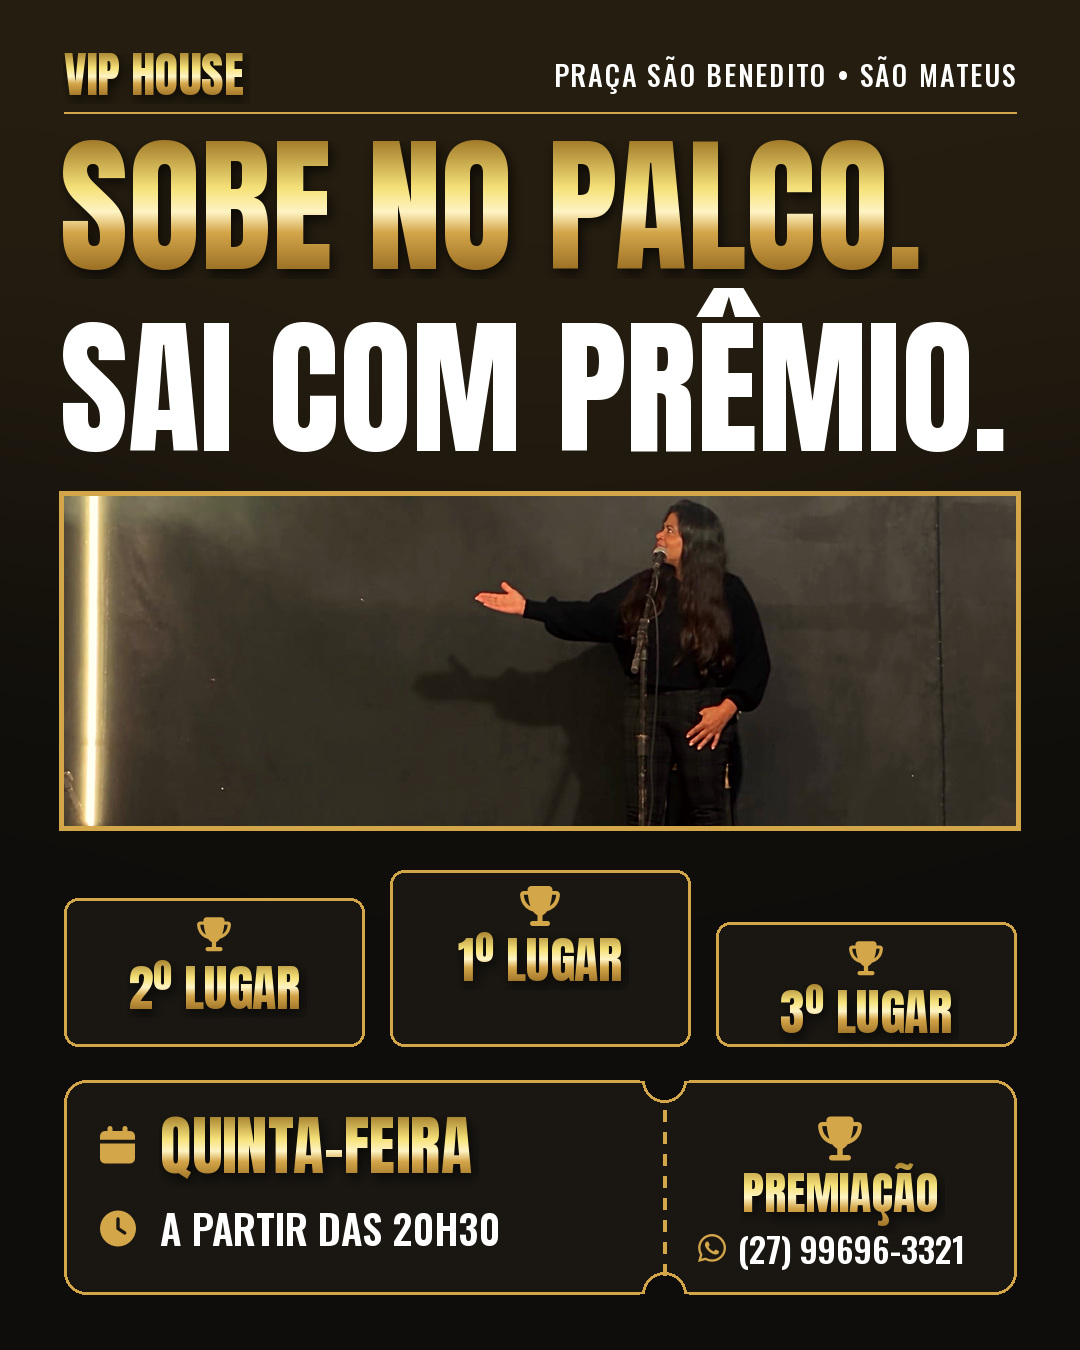
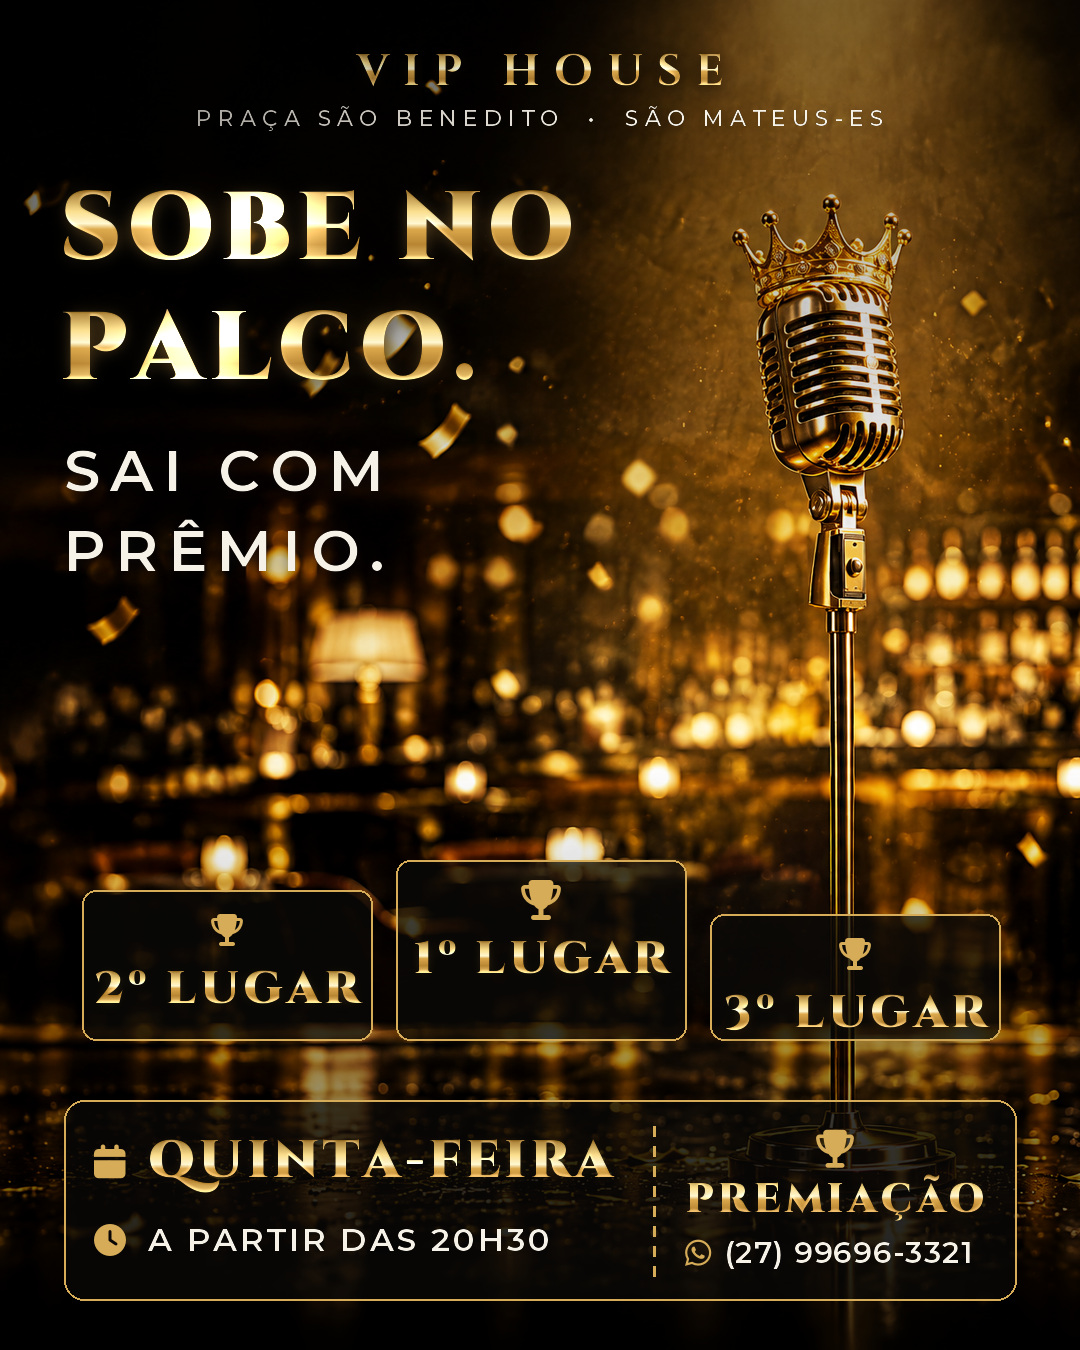
Redo the karaoke posts on the crowned gold microphone art
Five 4:5 posts on the 'o palco é seu' art (two new close-up and VIP-rope
variations made with Higgsfield), gold classic titles, italic taglines
and a translucent VIP ticket with the real info. Titles kept clear of
the microphone, punchline grouped by proximity, checked at full size and
in the 3:4 profile-grid crop.

Claude-Session: https://claude.ai/code/session_01H1sCtr9HCz1dyib54J37Yc

diff --git a/media/vip-house/build/posts-karaoke/posts_palco.py b/media/vip-house/build/posts-karaoke/posts_palco.py
@@ -1,0 +1,202 @@
+"""VIP House karaoke posts in the 'o palco é seu' direction: crowned gold microphone art,
+gold classic titles, italic taglines and a translucent VIP ticket with the real info."""
+import sys
+import numpy as np
+from PIL import Image, ImageDraw, ImageFont, ImageFilter
+sys.path.insert(0, '/tmp/claude-0/-home-user-a/8f0652ee-1482-53b0-83c8-c0d027028c46/scratchpad')
+import titles as T
+from titles import make_elem as E, blit
+
+S = T.S
+ART = '/home/user/a/media/raw/vip-house/palco'
+OUT = f'{S}/posts_palco'
+W, H, M = 1080, 1350, 64
+T.W, T.H = W, H
+GOLD = (214, 172, 88)
+FA = f'{S}/fonts2/fa-solid-900.ttf'
+FAB = f'{S}/fonts2/fa-brands-400.ttf'
+PHONE = '(27) 99696-3321'
+
+
+def cover(path, focus=(0.5, 0.5), zoom=1.0):
+    im = Image.open(path).convert('RGB')
+    sc = max(W / im.width, H / im.height) * zoom
+    im = im.resize((int(im.width * sc + 0.5), int(im.height * sc + 0.5)), Image.LANCZOS)
+    x0 = int(min(max(im.width * focus[0] - W / 2, 0), im.width - W))
+    y0 = int(min(max(im.height * focus[1] - H / 2, 0), im.height - H))
+    return im.crop((x0, y0, x0 + W, y0 + H))
+
+
+def shade(im, top_to=520, top_a=0.55, bot_from=880, bot_a=0.75):
+    f = np.asarray(im, np.float32) / 255
+    y = np.arange(H, dtype=np.float32)[:, None, None]
+    f *= 1 - np.clip((top_to - y) / top_to, 0, 1) ** 1.3 * top_a
+    f *= 1 - np.clip((y - bot_from) / (H - bot_from), 0, 1) ** 1.2 * bot_a
+    return f
+
+
+def icon(d, xy, cp, size, brand=False, anchor='mm'):
+    d.text(xy, chr(cp), font=ImageFont.truetype(FAB if brand else FA, size), fill=GOLD, anchor=anchor)
+
+
+def ticket_shapes(im, y, h=200):
+    """Translucent dark card with a thin gold line and a perforated stub."""
+    x0, x1 = M, W - M
+    card = Image.new('L', (W, H), 0)
+    ImageDraw.Draw(card).rounded_rectangle((x0, y, x1, y + h), radius=20, fill=170)
+    im.paste((10, 9, 7), (0, 0), card)
+    d = ImageDraw.Draw(im)
+    d.rounded_rectangle((x0, y, x1, y + h), radius=20, outline=GOLD, width=2)
+    sx = x0 + 590
+    for yy in range(y + 26, y + h - 20, 20):
+        d.line((sx, yy, sx, yy + 10), fill=GOLD, width=3)
+    icon(d, (x0 + 46, y + 62), 0xf133, 36)       # calendar
+    icon(d, (x0 + 46, y + 140), 0xf017, 32)      # clock
+    icon(d, ((sx + x1) / 2, y + 48), 0xf091, 38)  # trophy
+    icon(d, (sx + 44, y + 152), 0xf232, 30, brand=True)  # whatsapp
+    return sx
+
+
+def ticket_text(f, y, sx, line1='QUINTA-FEIRA', h=200):
+    x0, x1 = M, W - M
+    items = [(E(line1, 'cinzel9', 52, 4, 'gold', glow=0.35, shadow=0.4), 'l', x0 + 84, y + 62),
+             (E('A PARTIR DAS 20H30', 'mont6', 32, 3, 'white', glow=0.0, shadow=0.3), 'l', x0 + 84, y + 140),
+             (E('PREMIAÇÃO', 'cinzel9', 40, 4, 'gold', glow=0.35, shadow=0.4), 'm', (sx + x1) / 2, y + 100),
+             (E(PHONE, 'mont6', 30, 1, 'white', glow=0.0, shadow=0.3), 'l', sx + 70, y + 152)]
+    for e, al, x, yy in items:
+        cx = x + (e['w'] - 120) / 2 if al == 'l' else x  # elems are centred; 60px pad each side
+        blit(f, e, cx, yy, 1.0)
+
+
+def header(f):
+    blit(f, E('VIP HOUSE', 'cinzel7', 44, 14, 'gold', glow=0.3), W / 2, 72)
+    blit(f, E('PRAÇA SÃO BENEDITO  •  SÃO MATEUS-ES', 'mont5', 22, 6, 'white', glow=0.0, shadow=0.3), W / 2, 118)
+
+
+def build(bg, titles_, line1='QUINTA-FEIRA', extra=None, shade_kw=None):
+    im = Image.fromarray((shade(bg, **(shade_kw or {})) * 255).astype(np.uint8))
+    ty = 1100
+    sx = ticket_shapes(im, ty)
+    if extra:
+        extra(im)
+    f = np.asarray(im, np.float32) / 255
+    header(f)
+    for e, x, y in titles_:
+        blit(f, e, x, y, 1.0, 1.0, shine=0.42)
+    ticket_text(f, ty, sx, line1)
+    return Image.fromarray((np.clip(f, 0, 1) * 255 + 0.5).astype(np.uint8))
+
+
+def save(im, name):
+    im.save(f'{OUT}/{name}.jpg', quality=94, subsampling=0)
+    print('saved', name)
+
+
+C = W / 2
+gold = lambda s, size, tr=8, g=0.6: E(s, 'cinzel9', size, tr, 'gold', glow=g)
+white = lambda s, size, tr=8: E(s, 'mont6', size, tr, 'white', glow=0.12)
+ital = lambda s, size: E(s, 'play_i', size, 1, 'white', glow=0.15)
+
+
+def fitE(maker, s, size, max_w, *a):
+    """Largest element (from `size` down) whose text fits max_w."""
+    while size > 20:
+        e = maker(s, size, *a)
+        if e['w'] - 120 <= max_w:
+            return e
+        size -= 2
+    return maker(s, 20, *a)
+
+
+def at_left(f, e, x, y, **k):
+    blit(f, e, x + (e['w'] - 120) / 2, y, 1.0, 1.0, **k)
+
+
+def finish(im_or_f):
+    f = im_or_f if isinstance(im_or_f, np.ndarray) else np.asarray(im_or_f, np.float32) / 255
+    return Image.fromarray((np.clip(f, 0, 1) * 255 + 0.5).astype(np.uint8))
+
+
+def side_shade(im, x_from, a=0.62):
+    f = np.asarray(im, np.float32) / 255
+    x = np.arange(W, dtype=np.float32)[None, :, None]
+    f *= 1 - np.clip((x - x_from) / (W - x_from), 0, 1) ** 0.9 * a
+    return Image.fromarray((f * 255).astype(np.uint8))
+
+
+# 1. toda quinta, o palco é seu: titles above the crown
+save(build(cover(f'{ART}/arte-2x3.png', (0.5, 0.0)), [
+    (white('TODA QUINTA,', 40, 20), C, 182),
+    (fitE(gold, 'O PALCO É SEU', 110, W - 2 * M, 8), C, 282),
+    (ital('karaokê com premiação para quem mandar bem', 40), C, 1032),
+], shade_kw=dict(top_to=420, top_a=0.5)), 'post1-toda-quinta-o-palco-e-seu')
+
+def podium(im):
+    d = ImageDraw.Draw(im)
+    pw, gap, base = 290, 24, 1040
+    for place, x, h in [(2, M + 18, 150), (1, M + 18 + pw + gap, 180), (3, M + 18 + 2 * (pw + gap), 126)]:
+        mask = Image.new('L', (W, H), 0)
+        ImageDraw.Draw(mask).rounded_rectangle((x, base - h, x + pw, base), radius=14, fill=190)
+        im.paste((10, 9, 7), (0, 0), mask)
+        d.rounded_rectangle((x, base - h, x + pw, base), radius=14, outline=GOLD, width=2)
+        icon(d, (x + pw / 2, base - h + 40), 0xf091, 40 if place == 1 else 32)
+        podium.labels.append((x + pw / 2, base - h + 100, place))
+
+
+# 2. sobe no palco, sai com prêmio: mic on the right third, titles in a left column
+podium.labels = []
+bg2 = cover(f'{ART}/arte-16x9.png', (0.60, 0.42))
+im2 = build(bg2, [], extra=podium, shade_kw=dict(top_to=640, top_a=0.45, bot_from=760, bot_a=0.8))
+f2 = np.asarray(im2, np.float32) / 255
+x = np.arange(W, dtype=np.float32)[None, :, None]
+f2 *= 1 - np.clip((620 - x) / 620, 0, 1) * np.clip((780 - np.arange(H, dtype=np.float32)[:, None, None]) / 780, 0, 1) * 0.55
+T.W, T.H = W, H
+at_left(f2, gold('SOBE NO', 96, 6), M - 4, 230, shine=0.42)
+at_left(f2, gold('PALCO.', 96, 6), M - 4, 350, shine=0.42)
+at_left(f2, white('SAI COM', 58, 10), M, 470)
+at_left(f2, white('PRÊMIO.', 58, 10), M, 550)
+for px, py, place in podium.labels:
+    blit(f2, gold(f'{place}º LUGAR', 46, 4, 0.4), px, py)
+save(finish(f2), 'post2-sobe-no-palco-sai-com-premio')
+
+# 3. qual música: crowned mic close-up on the left, text column on the right
+CX0 = 630
+
+
+def bubble(im):
+    d = ImageDraw.Draw(im)
+    x0, y0, x1, y1 = CX0 - 20, 740, W - M, 1036
+    mask = Image.new('L', (W, H), 0)
+    ImageDraw.Draw(mask).rounded_rectangle((x0, y0, x1, y1), radius=20, fill=205)
+    im.paste((10, 9, 7), (0, 0), mask)
+    d.rounded_rectangle((x0, y0, x1, y1), radius=20, outline=GOLD, width=2)
+    icon(d, (x0 + 40, y0 + 52), 0xf075, 34)
+
+
+bg3 = side_shade(cover(f'{ART}/arte-close-4x5.png', (0.68, 0.5), zoom=1.15), 560, 0.7)
+im3 = build(bg3, [], extra=bubble, shade_kw=dict(top_to=300, top_a=0.4, bot_from=1000, bot_a=0.7))
+f3 = np.asarray(im3, np.float32) / 255
+T.W, T.H = W, H
+colw = W - M - CX0
+y = 250
+for line, mk, sz, step in [('QUAL', gold, 96, 108), ('MÚSICA', gold, 96, 112), ('VOCÊ VAI', white, 56, 74), ('CANTAR?', white, 56, 0)]:
+    at_left(f3, fitE(mk, line, sz, colw, 6), CX0, y, shine=0.42)
+    y += step
+at_left(f3, fitE(lambda t, z: E(t, 'cinzel9', z, 3, 'gold', glow=0.35), 'COMENTA', 40, colw - 70), CX0 + 46, 792)
+for i, line in enumerate(['a música que você', 'vai cantar. A mais', 'pedida abre a noite!']):
+    at_left(f3, fitE(lambda t, z: E(t, 'play_i', z, 0, 'white', glow=0.1), line, 38, colw - 20), CX0, 862 + i * 52)
+save(finish(f3), 'post3-qual-musica-voce-vai-cantar')
+
+# 4. humor with the VIP rope
+save(build(cover(f'{ART}/arte-cordao-vip-4x5.png', (0.5, 0.5)), [
+    (fitE(ital, 'No banho, todo mundo é cantor.', 66, W - 2 * M), C, 220),
+    (white('NA QUINTA,', 40, 18), C, 930),
+    (fitE(gold, 'TODO MUNDO É VIP', 96, W - 2 * M, 6), C, 1022),
+], shade_kw=dict(top_to=380, top_a=0.55, bot_from=760, bot_a=0.85)), 'post4-na-quinta-todo-mundo-e-vip')
+
+# 5. é hoje
+save(build(cover(f'{ART}/arte-9x16.png', (0.5, 0.0)), [
+    (fitE(gold, 'É HOJE', 200, W - 2 * M, 12), C, 280),
+    (white('KARAOKÊ NA VIP HOUSE', 40, 12), C, 400),
+    (ital('Chegue cedo e garanta sua mesa', 46), C, 1030),
+], line1='HOJE', shade_kw=dict(top_to=480, top_a=0.5)), 'post5-e-hoje')

diff --git a/media/vip-house/posts-karaoke/legendas.md b/media/vip-house/posts-karaoke/legendas.md
@@ -1,10 +1,10 @@
 # Posts do karaokê de quinta: @viphousesm
 
-Cinco posts de feed (4:5, 1080x1350), só imagem, em preto e dourado (estilo da casa). Fotos reais do karaokê da casa, sem imagem de IA.
+Cinco posts de feed (4:5, 1080x1350), só imagem, na linha do microfone dourado com coroa ("o palco é seu"), em preto e dourado.
 Antes de postar, confira o WhatsApp de inscrição (27) 99696-3321, que veio do post de agosto.
 
-## Seg, 18h: post1-quinta-e-dia-de-soltar-a-voz.jpg
-🎤 QUINTA É DIA DE SOLTAR A VOZ NA VIP HOUSE! 🖤💛
+## Seg, 18h: post1-toda-quinta-o-palco-e-seu.jpg
+👑🎤 TODA QUINTA, O PALCO É SEU! 🖤💛
 
 Karaokê ao vivo, palco aberto e premiação pra quem mandar bem! 🏆
 
@@ -17,9 +17,9 @@ Marca aqui quem vai subir no palco com você 👇
 
 #VIPHouse #KaraokêVIP #SãoMateusES #Karaokê #QuintaFeira
 
-## Ter, 12h: post4-no-banho-todo-mundo-e-cantor.jpg
+## Ter, 12h: post4-na-quinta-todo-mundo-e-vip.jpg
 No banho, todo mundo é cantor… 🚿🎤
-Na quinta, todo mundo é VIP! 😂🖤💛
+Na quinta, todo mundo é VIP! 👑😂🖤💛
 
 Bora tirar esse talento do chuveiro? Karaokê com premiação toda quinta, 20h30, na VIP House.
 Marca aquele amigo que canta no banho 👇
